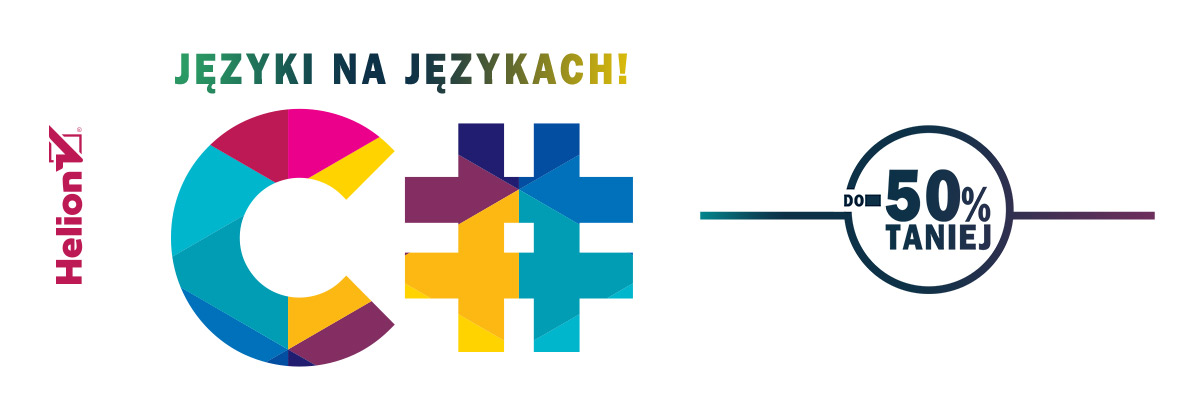
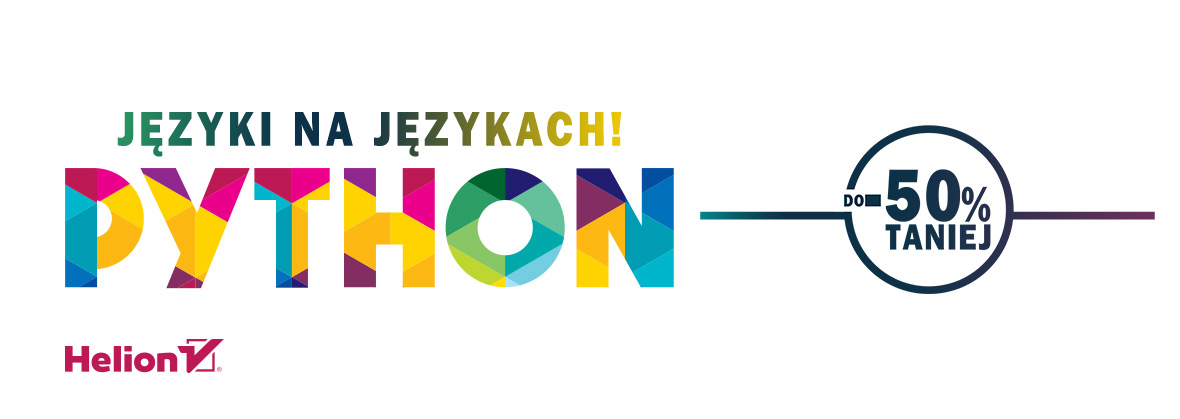
new helion promotion

Changed region(s): [[0.0305, 0.2482, 0.5797, 0.8998], [0.1525, 0.1241, 0.5492, 0.2172]]

diff --git a/promocje/promotions.js b/promocje/promotions.js
@@ -1,8 +1,8 @@
 const promotion = {
-  start: new Date('2018-02-22'),
-  end: new Date('2018-02-22'),
-  number: 4491,
-  discount: '-30% (-50% ebooki) na książki w kategorii C#',
+  start: new Date('2018-02-23'),
+  end: new Date('2018-02-23'),
+  number: 4492,
+  discount: '-30% (-50% ebooki) na książki w kategorii Python',
   host: 'helion.pl',
   img: true,
 };

diff --git a/promocje/helion/index.html b/promocje/helion/index.html
@@ -1,7 +1,7 @@
 <!DOCTYPE html>
 <html lang="pl">
 <head>
-  <meta http-equiv="refresh" content="0; URL='https://helion.pl/page/9102Q/promocja/4491'"/>
+  <meta http-equiv="refresh" content="0; URL='https://helion.pl/page/9102Q/promocja/4492'"/>
 </head>
 <body>
 
